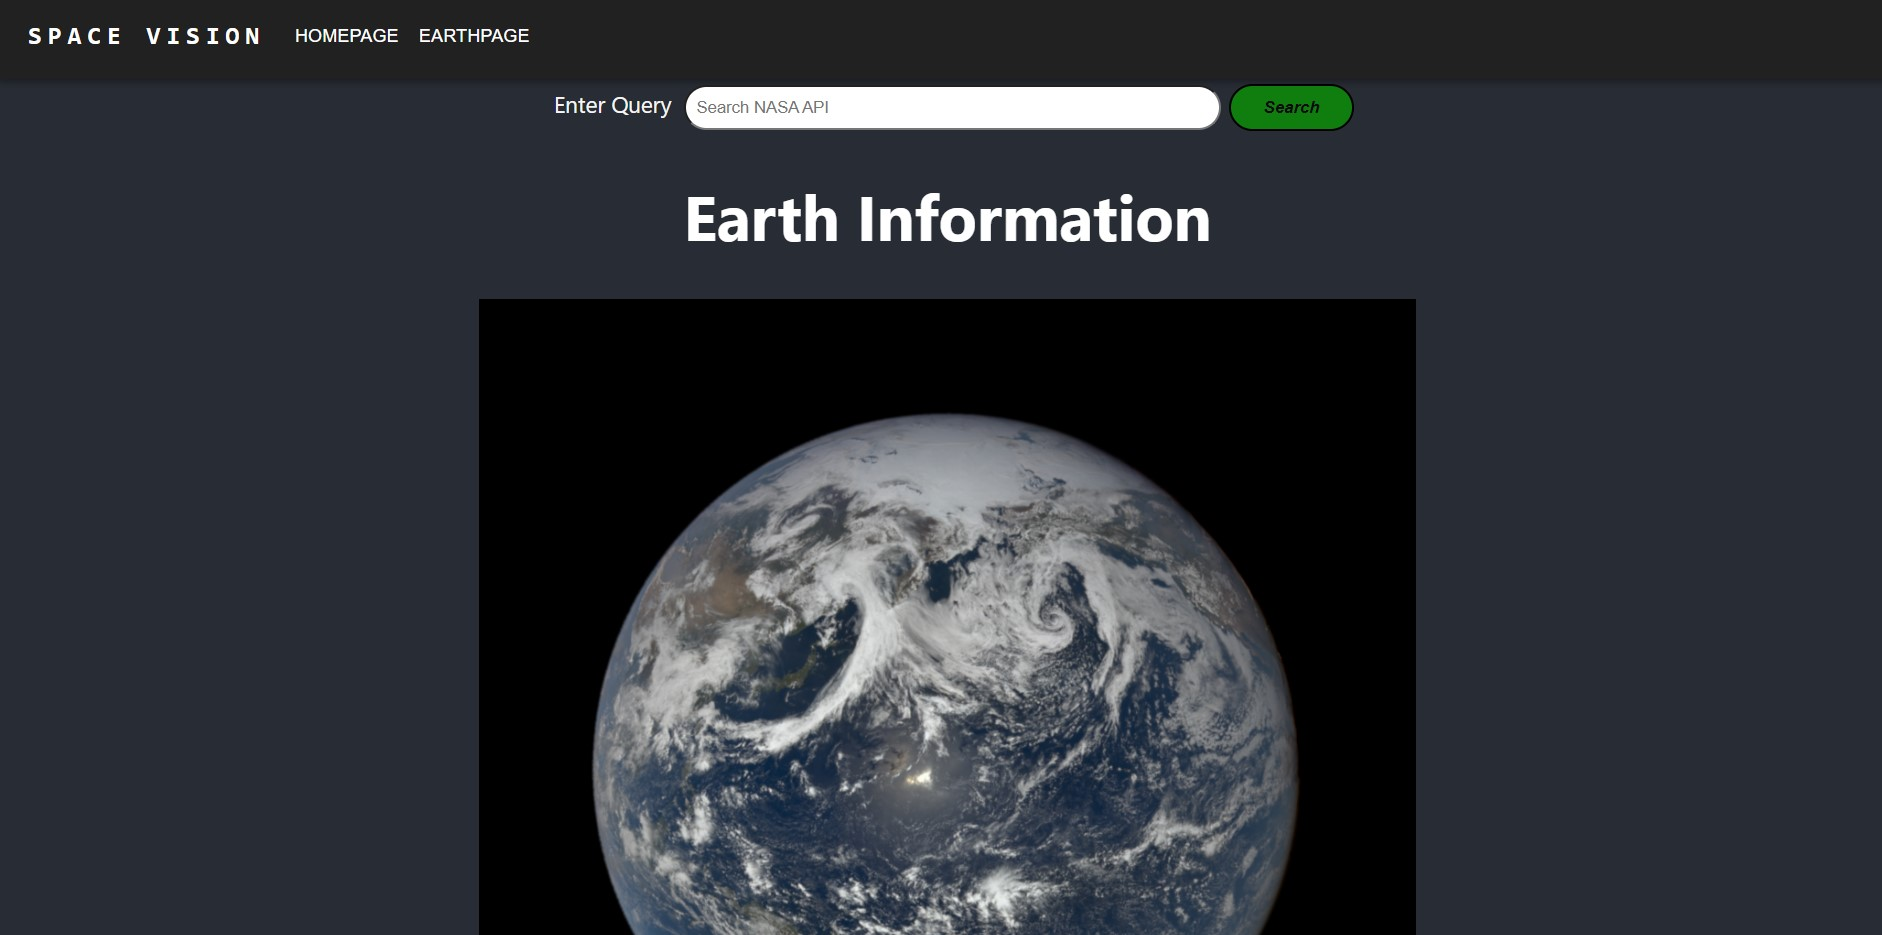
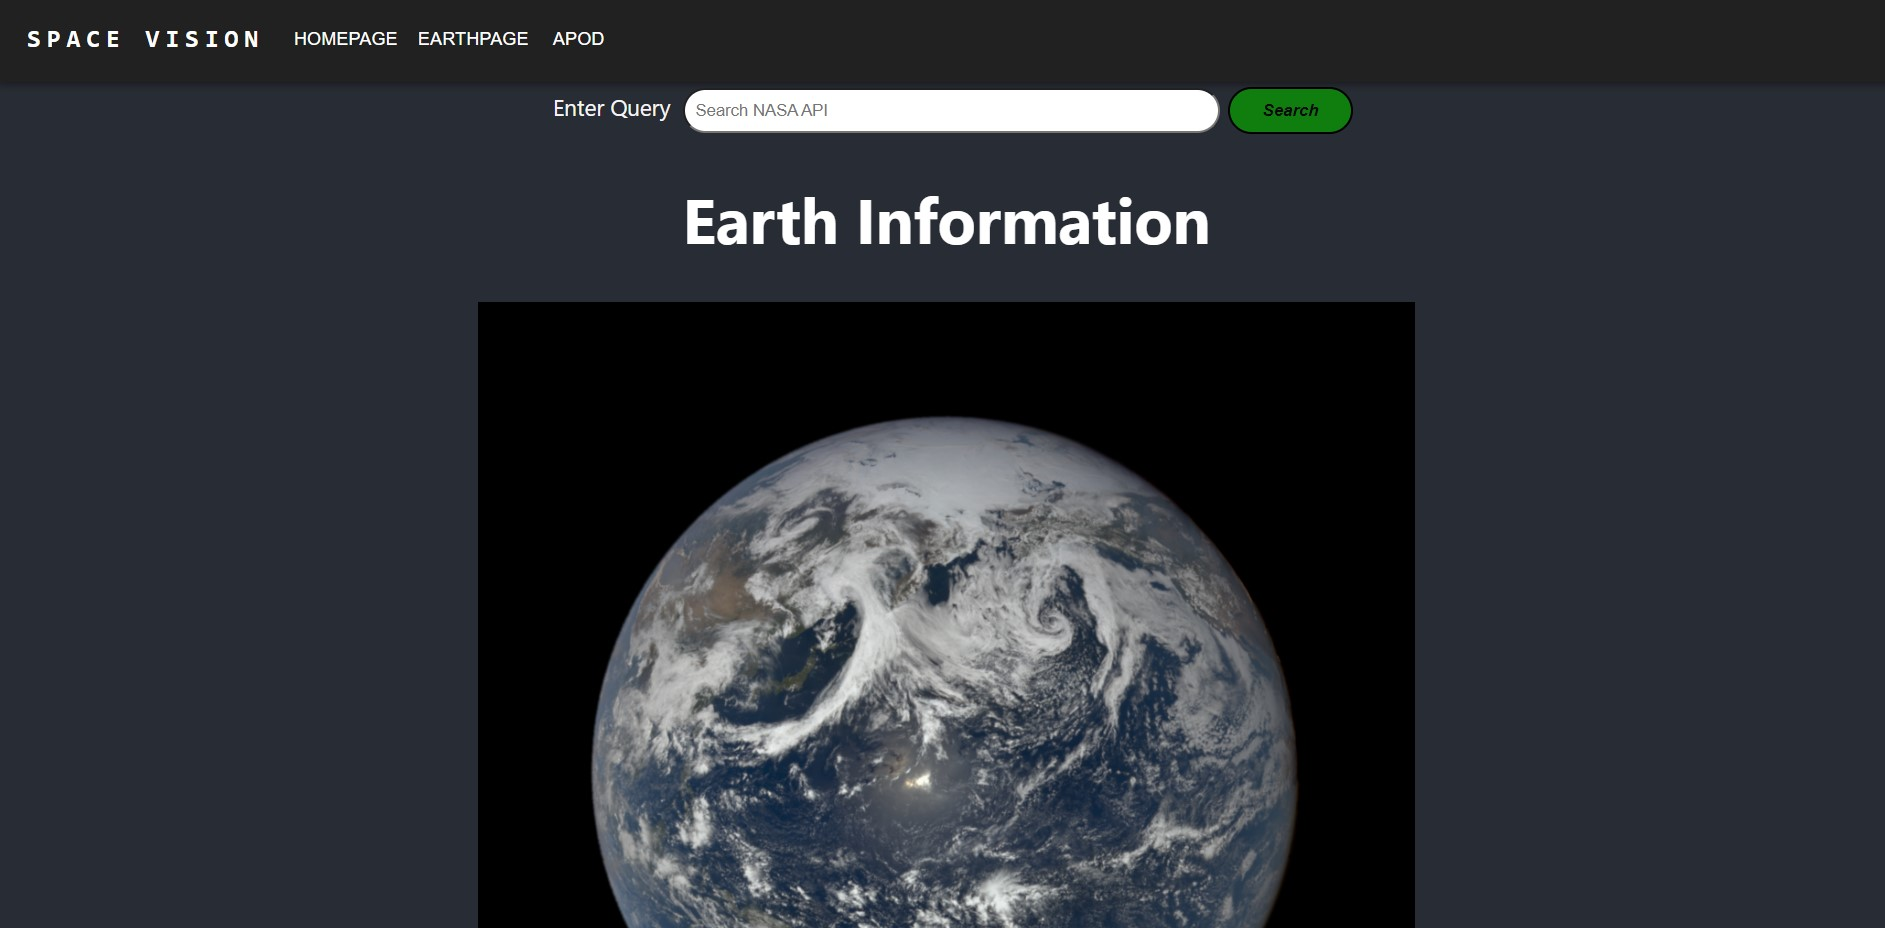
Updated pictures

diff --git a/README.md b/README.md
@@ -43,6 +43,8 @@
 ## Sprint 1
 ![SpaceVisionHp](README_Imgs/SVHomepageS1.jpg)
 ![SpaceVisionEp](README_Imgs/SVEarthpageS1.jpg)
+![SpaceVisionAPODP1](README_Imgs/SVAPODP1S1.jpg)
+![SpaceVisionAPODP2](README_Imgs/SVAPODP2S1.jpg)
 
 
 ## Contributions
